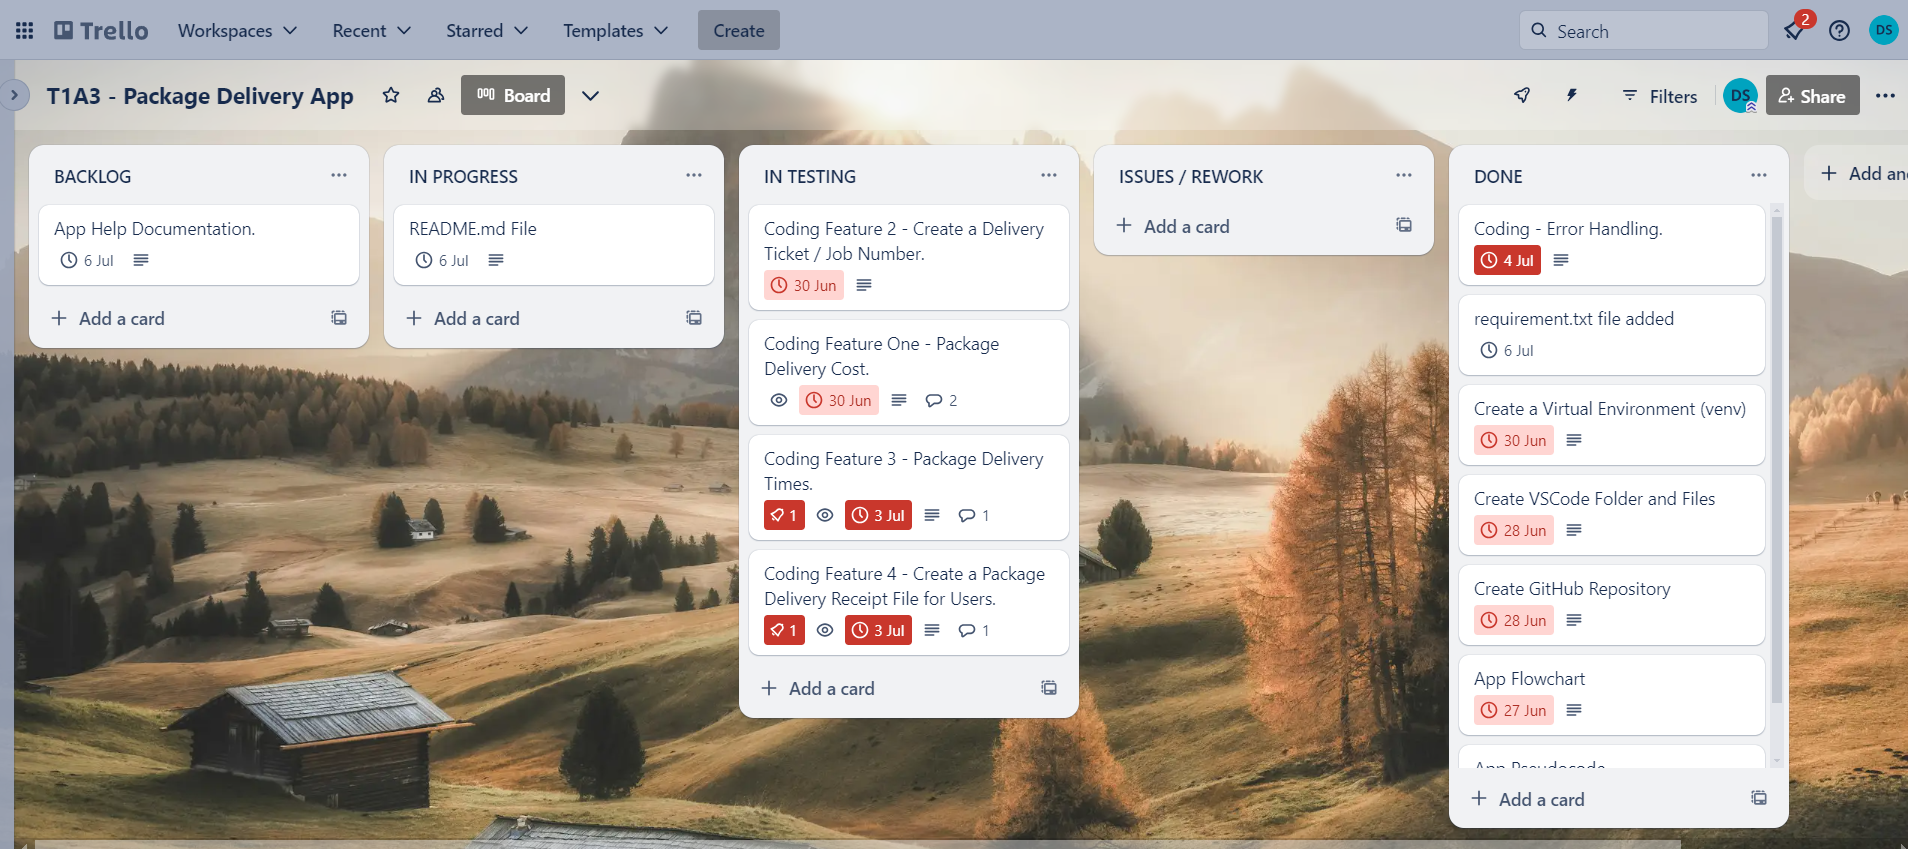
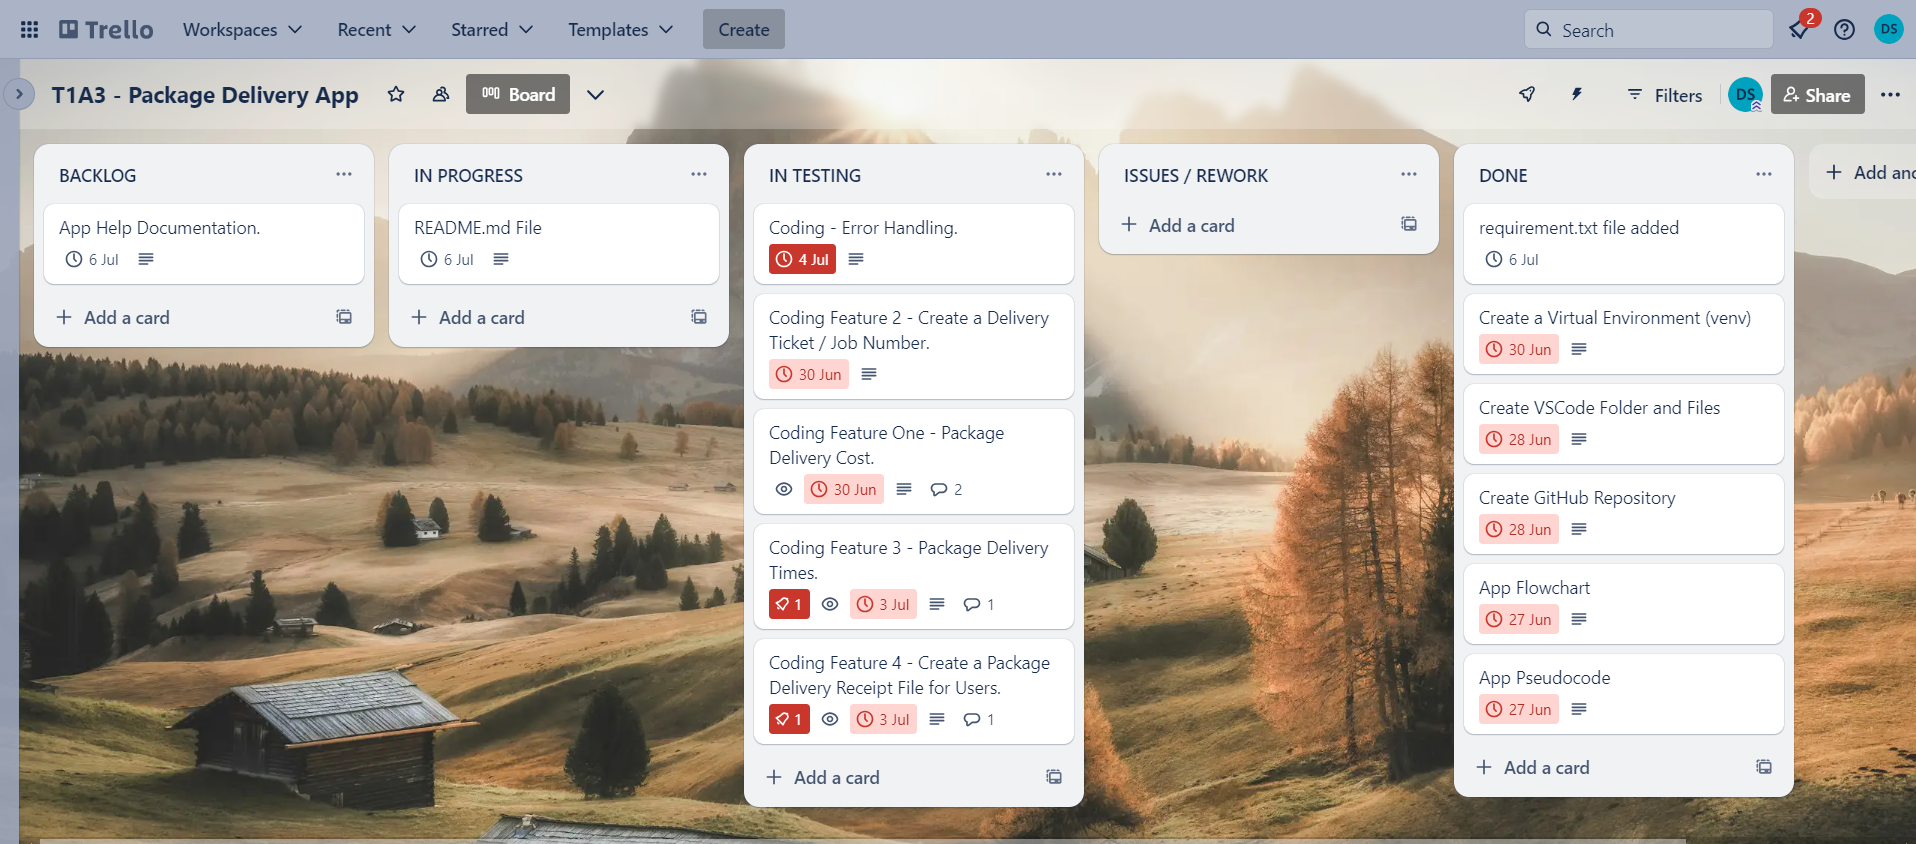
added run_app.sh file, and install instructions to readme

diff --git a/src/delivery_cost.py b/src/delivery_cost.py
@@ -60,8 +60,8 @@ def package_cost():
               "Please contact for delivery options.")
         return
     elif act_weight > 22:
-        print(f"{Style.BRIGHT}{Fore.RED}Apologies but the weight is greater than 22kg." + 
-              "This is to large for Australia Post to accept over the counter." +
+        print(f"{Style.BRIGHT}{Fore.RED}Apologies but the actual weight is greater than 22kg." + 
+              "This is to heavy for Australia Post to accept over the counter." +
               f"Please contact for delivery options.{Fore.RESET}")
         return
     

diff --git a/README.md b/README.md
@@ -9,7 +9,7 @@ This Package Delivery Application is to provide users an estimated delivery cost
 
 ## Table Of Contents:
 
-- [Feature Outline](#application-feature-outline)
+- [Feature Outline & Logic](#application-feature-outline)
    - [Main Menu](#main-menu)
    - [Feature One](#feature-one)
    - [Feature Two](#feature-two)
@@ -26,12 +26,12 @@ This Package Delivery Application is to provide users an estimated delivery cost
 - [Help Documentation](#help-documentation)
 - [References](#references)
 
-## Application Feature Outline:
+## Application Feature Outline & Logic:
 
 ### **Main Menu**: 
 ***Description*** - When users run the application the first area to be displayed is the Main Menu. This is where users can choose one of the features to use. There are 4 options: Package Delivery Cost Calculator, Estimate Package Delivery Times, Save a Delivery Receipt and Exit Application.
 
-Logic - The main menu logic is located in the main.py file. This file is importing th following Python packages:
+***Logic*** - The main menu logic is located in the main.py file. This file is importing th following Python packages:
 1. emoji package. 
 2. colorama package.
 When users enter their choice number for the feature they want to use, it will then call the corresponding function imported from the file location. Entering the following numbers will call the following functions:
@@ -43,7 +43,7 @@ When users enter their choice number for the feature they want to use, it will t
 ### **Feature One**:
 **Package Delivery Cost Calculator:**
 ***Description*** - The Package Delivery Cost Calculator will estimate a delivery charge based on a number of user entered data inputs. This feature has been based on the current 2024 Australia Post Parcel Charges for the standard parcel delivery service only. These can be viewed from this pdf:
-[Australia Post Parcel Regular Service Charges 2024, Based on Pages 15,16 & 17 Rates](https://auspost.com.au/content/dam/auspost_corp/media/documents/post-guides/post-charges-guide-ms11.pdf)
+[Australia Post Parcel Regular Service Charges 2024, Based on Pages 14, 15, 16 & 17 Rates](https://auspost.com.au/content/dam/auspost_corp/media/documents/post-guides/post-charges-guide-ms11.pdf)
 
 The user inputs are:
  - Sender name & contact number.
@@ -84,9 +84,9 @@ If any one of these are entered by user or calculated, a warning will display ad
 
 ### **Feature Two**:
 **Save Delivery Job Details As A json File**
-**Description** - After the feature one displays delivery details, the user is asked if they would like to book this delivery job by a 'Y or N' response. If user chooses to book the delivery job, a delvery ticket number will be displayed for their future reference and all the details saved as a json file, named as the ticket number.
+***Description*** - After the feature one displays delivery details, the user is asked if they would like to book this delivery job by a 'Y or N' response. If user chooses to book the delivery job, a delvery ticket number will be displayed for their future reference and all the details saved as a json file, named as the ticket number.
 
-**Logic** - For feature two, at the top of the delivery_cost file, it is importing 4 Python packages:
+***Logic*** - For feature two, at the top of the delivery_cost file, it is importing 4 Python packages:
 1. Random module using the randint function = to generate a random number.
 2. json module using the dump function = to write a json file.
 3. os module using the join function = to join the json file path components.
@@ -106,7 +106,7 @@ If any one of these are entered by user or calculated, a warning will display ad
 The sender and receiver postcodes inputed from the post_zone function will return the postal zones these postcodes belong to. Then these zones will be used on the delivery_daytimes list of delivery times (for the same zones), which return the exact estimated delivery times (row, column) between the 2 postal code zones according to the AusPost Transit Grid Delivery Estimator August 2023 update pdf.
 
 ### **Feature Four**:
-**Save A Delivery Receipt**
+***Save A Delivery Receipt***
 ***Description:*** - This feature will find a delivery ticket number entered by the user, then display the delivery job details of this ticket and ask the user if thay would like to save a receipt of this delivery job. If 'No' = then returns to the main menu. If 'Yes', it will save all of the details displayed of this delivery job to a text file to the 'delivery_receipts' folder.
 
 ***Logic*** - The delivery_receipt.py file will import 2 Python packages:
@@ -139,9 +139,13 @@ Trello board - main setup and design done, start development:
 
 ![Trello board -start development](./docs/Trello%20start%20coding.png)
 
-Trello board - testing phase:
+Trello board - error handling and testing phase:
 
 ![Trello board - testing phase](./docs/Trello%20testing%20phase.png)
+
+Trello board - Issues found with error handling & testing, need to rework:
+
+![Trello board - rework](./docs/Trello%20-%20rework.png)
 
 Trello board - completed:
 
@@ -208,7 +212,7 @@ Displays in terminal:
 
 ![FileNotFoundError](./docs/Cannot%20find%20file%20error.png)
 
-#### User Input Incorrect String To Questions:
+#### User Input Incorrect String Answers To Questions:
 For the questions to users to decide on an outcome, if they answer / enter the incorrect string (other than Y or N as displayed), this is handled by 'else' statements:
 
 ![else code](./docs/Invalid%20option%203.png)
@@ -217,12 +221,6 @@ Displays in terminal:
 
 ![else warning](./docs/Invalid%20option%202.png)
 
-
-
-
-
-
-
 ## Application Testing :
 
 ### Testing Screenshots:
@@ -230,8 +228,26 @@ Displays in terminal:
 ## Help Documentation :
 
 ### Dependencies:
+This application requires Python3 to be installed to run.
 
-### Installation:
+The application uses following Python library packages:
+ - emoji==1.2.0
+ - colorama==0.4.6
+ - autopep8==2.3.1
+
+These libraries will be automatically installed when following the installation instructions.
+
+### Installation Instructions:
+To run this application follow these step by step instructions:
+
+1. In terminal, cd into src folder where the application source code is located.
+2. To have the execute permissions type in this command:
+
+` chmod +x ./run_app.sh `
+
+3. Then run the application file by this command:
+
+` ./run_app.sh `
 
 ### Using The Packing Delivery Application:
 
